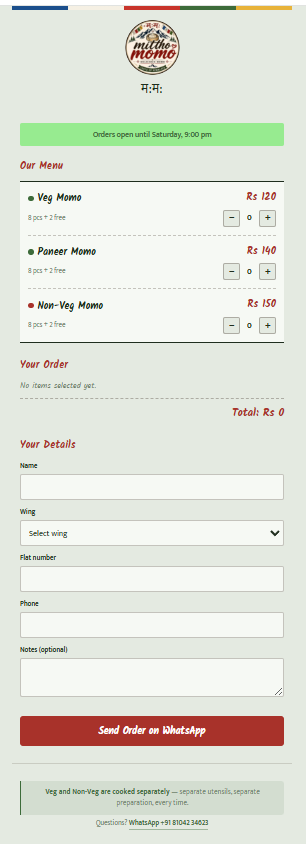
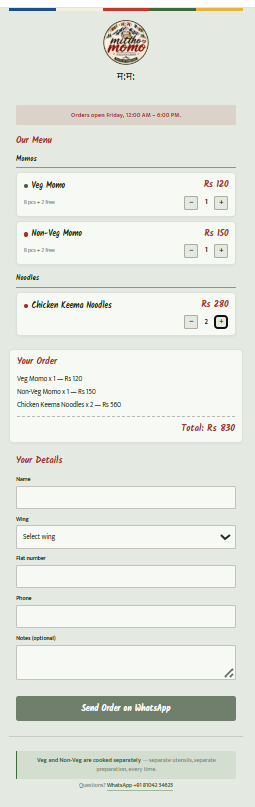
Menu changes and UI changes

diff --git a/js/app.js b/js/app.js
@@ -1,23 +1,51 @@
 const menuList = document.getElementById('menu-list');
 
-let menuHTML = '';
+const categoryLabels = {
+  momo: 'Momos',
+  noodles: 'Noodles',
+};
 
-menu.forEach(function (item) {
-    menuHTML += `
+function renderMenu() {
+  const grouped = {};
+  menu.forEach(function (item) {
+    if (!grouped[item.category]) {
+      grouped[item.category] = [];
+    }
+    grouped[item.category].push(item);
+  });
+
+  let html = '';
+
+  Object.keys(grouped).forEach(function (category) {
+    html += `<h3 class="menu-group-title">${categoryLabels[category] || category}</h3>`;
+    html += '<div class="menu-group">';
+
+    grouped[category].forEach(function (item) {
+      const piecesLine = item.category === 'momo'
+        ? `<p class="pieces">${item.pieces} pcs + ${item.freePieces} free</p>`
+        : '';
+
+      html += `
         <article class="menu-card">
-            <h3><span class="dot ${item.isVeg ? 'veg' : 'nonveg'}"></span>${item.name}</h3>
-            <p class="pieces">${item.pieces} pcs + ${item.freePieces} free</p>
-            <p class="price">Rs ${item.price}</p>
-            <div class="qty-controls">
-                <button type="button" class="qty-btn" data-id="${item.id}" data-action="minus">−</button>
-                <span class="qty" id="qty-${item.id}">0</span>
-                <button type="button" class="qty-btn" data-id="${item.id}" data-action="plus">+</button>
-            </div>
+          <h4><span class="dot ${item.isVeg ? 'veg' : 'nonveg'}"></span>${item.name}</h4>
+          ${piecesLine}
+          <p class="price">Rs ${item.price}</p>
+          <div class="qty-controls">
+            <button type="button" class="qty-btn" data-id="${item.id}" data-action="minus">−</button>
+            <span class="qty" id="qty-${item.id}">0</span>
+            <button type="button" class="qty-btn" data-id="${item.id}" data-action="plus">+</button>
+          </div>
         </article>
-    `;
-});
+      `;
+    });
 
-menuList.innerHTML = menuHTML;
+    html += '</div>';
+  });
+
+  menuList.innerHTML = html;
+}
+
+renderMenu();
 
 const cart = {};
 menu.forEach(function (item) {
@@ -123,10 +151,9 @@ submitBtn.addEventListener('click', function () {
     return;
   }
 
-  // valid — message building goes here next
-    const message = buildMessage();
-    const url = 'https://wa.me/+918104234623?text=' + encodeURIComponent(message);
-    window.open(url, '_blank');
+  const message = buildMessage();
+  const url = 'https://wa.me/918104234623?text=' + encodeURIComponent(message);
+  window.open(url, '_blank');
 });
 
 function buildMessage() {
@@ -140,7 +167,8 @@ function buildMessage() {
     if (qty > 0) {
       const lineTotal = item.price * qty;
       total = total + lineTotal;
-      lines += `• ${item.name} (${item.pieces}+${item.freePieces} pcs) x${qty} = Rs ${lineTotal}\n`;
+      const pieceInfo = item.category === 'momo' ? ` (${item.pieces}+${item.freePieces} pcs)` : '';
+      lines += `• ${item.name}${pieceInfo} x${qty} = Rs ${lineTotal}\n`;
     }
   });
 
@@ -171,10 +199,30 @@ function buildMessage() {
   return message;
 }
 
+function getKolkataDayAndHour() {
+  const parts = new Intl.DateTimeFormat('en-US', {
+    timeZone: 'Asia/Kolkata',
+    weekday: 'short',
+    hour: 'numeric',
+    hour12: false,
+  }).formatToParts(new Date());
+
+  const weekday = parts.find(function (p) { return p.type === 'weekday'; }).value;
+  let hour = Number(parts.find(function (p) { return p.type === 'hour'; }).value);
+  if (hour === 24) hour = 0;
+
+  return { weekday, hour };
+}
+
 function isOrderWindowOpen() {
-  const deadline = new Date(ORDER_DEADLINE);
-  const now = new Date();
-  return now < deadline;
+  const { weekday, hour } = getKolkataDayAndHour();
+  return weekday === 'Fri' && hour >= ORDER_OPEN_HOUR && hour < ORDER_CLOSE_HOUR;
+}
+
+function formatHourLabel(hour) {
+  const period = hour < 12 ? 'AM' : 'PM';
+  const displayHour = hour % 12 === 0 ? 12 : hour % 12;
+  return displayHour + ':00 ' + period;
 }
 
 function applyOrderWindow() {
@@ -182,17 +230,10 @@ function applyOrderWindow() {
   const isOpen = isOrderWindowOpen();
 
   if (isOpen) {
-    const deadline = new Date(ORDER_DEADLINE);
-    const readable = deadline.toLocaleString('en-IN', {
-      timeZone: 'Asia/Kolkata',
-      weekday: 'long',
-      hour: 'numeric',
-      minute: '2-digit',
-    });
-    banner.textContent = 'Orders open until ' + readable;
+    banner.textContent = 'Orders open until ' + formatHourLabel(ORDER_CLOSE_HOUR) + ' today.';
     banner.className = 'status-banner open';
   } else {
-    banner.textContent = 'Orders are closed for this week. Check back soon.';
+    banner.textContent = 'Orders open Friday, ' + formatHourLabel(ORDER_OPEN_HOUR) + ' – ' + formatHourLabel(ORDER_CLOSE_HOUR) + '.';
     banner.className = 'status-banner closed';
     submitBtn.disabled = true;
   }

diff --git a/css/styles.css b/css/styles.css
@@ -8,6 +8,7 @@
   --dark: #1F2E1E;
   --muted: #6F7F6C;
   --maroon: #A8322A;
+  --maroon-dark: #7E1F1A;
   --gold: #B58F3F;
   --green: #3D6B3A;
 
@@ -96,7 +97,7 @@ body {
 }
 
 .status-banner.open {
-  background: rgba(28, 238, 13, 0.384);
+  background: rgba(61, 107, 58, 0.15);
   color: var(--green);
 }
 
@@ -123,19 +124,32 @@ h2 {
 /* ---------- Menu list ---------- */
 
 #menu-list {
-  background: var(--paper);
-  padding: 0 16px;
-  border-top: 2px solid var(--dark);
-  border-bottom: 2px solid var(--dark);
+  background: none;
+  padding: 0;
+  border: none;
+}
+
+.menu-group-title {
+  font-family: "Kalam", cursive;
+  font-size: 1.05rem;
+  font-weight: 700;
+  color: var(--dark);
+  margin: 20px 0 10px;
+  padding-bottom: 6px;
+  border-bottom: 2px solid var(--gold);
+}
+
+.menu-group-title:first-child {
+  margin-top: 0;
 }
 
 .menu-card {
-  background: none;
-  border: none;
-  border-radius: 0;
-  border-bottom: 1px dashed rgba(46, 31, 20, 0.25);
-  padding: 16px 0;
-  margin: 0;
+  background: var(--paper);
+  border: 1px solid rgba(31, 46, 30, 0.12);
+  border-radius: 10px;
+  box-shadow: 0 2px 6px rgba(31, 46, 30, 0.06);
+  padding: 14px 16px;
+  margin-bottom: 10px;
   display: grid;
   grid-template-columns: minmax(0, 1fr) auto;
   grid-template-areas:
@@ -145,12 +159,14 @@ h2 {
   align-items: center;
 }
 
-.menu-card:last-child { border-bottom: none; }
+.menu-card:last-child {
+  margin-bottom: 0;
+}
 
-.menu-card h3 {
+.menu-card h4 {
   grid-area: name;
   font-family: "Kalam", cursive;
-  font-size: 1.25rem;
+  font-size: 1.15rem;
   font-weight: 700;
   margin: 0;
   display: flex;
@@ -218,6 +234,14 @@ h2 {
 }
 
 /* ---------- Order summary ---------- */
+
+#summary-section {
+  background: var(--paper);
+  border: 1px solid rgba(31, 46, 30, 0.12);
+  border-radius: 10px;
+  box-shadow: 0 2px 6px rgba(31, 46, 30, 0.06);
+  padding: 14px 16px;
+}
 
 .cart-line {
   margin: 0 0 6px;
@@ -315,6 +339,7 @@ footer p { margin: 6px 0; }
   * { transition: none !important; animation: none !important; }
 }
 
+/* ---------- Toast ---------- */
 
 .toast {
   position: fixed;
@@ -377,4 +402,3 @@ footer p { margin: 6px 0; }
   white-space: nowrap;
   border: 0;
 }
-

diff --git a/js/menu.js b/js/menu.js
@@ -1,7 +1,10 @@
-const ORDER_DEADLINE = '2026-09-05T21:00:00+05:30';
+// Orders are open every Friday, Asia/Kolkata time, from ORDER_OPEN_HOUR up to
+// (not including) ORDER_CLOSE_HOUR. Hours are 24-hour, so 0 = 12:00 AM, 18 = 6:00 PM.
+const ORDER_OPEN_HOUR = 0;
+const ORDER_CLOSE_HOUR = 18;
 
 const menu = [
-  { id: 'veg',    name: 'Veg Momo',     price: 120, type: 'veg',    isVeg: true,  pieces: 8, freePieces: 2 },
-  { id: 'paneer', name: 'Paneer Momo',  price: 140, type: 'paneer', isVeg: true,  pieces: 8, freePieces: 2 },
-  { id: 'nonveg', name: 'Non-Veg Momo', price: 150, type: 'nonveg', isVeg: false, pieces: 8, freePieces: 2 },
+  { id: 'veg',    name: 'Veg Momo',     price: 120, type: 'veg',    isVeg: true,  pieces: 8, freePieces: 2, category: 'momo' },
+  { id: 'nonveg', name: 'Non-Veg Momo', price: 150, type: 'nonveg', isVeg: false, pieces: 8, freePieces: 2, category: 'momo' },
+  { id: 'keema-noodles', name: 'Chicken Keema Noodles', price: 280, isVeg: false, category: 'noodles' },
 ];

diff --git a/README.md b/README.md
@@ -32,7 +32,7 @@ Customer picks items  →  cart state in browser  →  formatted text
 
 - **Data-driven menu** — items live in a single array; prices and products are never hardcoded in markup
 - **Live cart** with per-item quantity controls and running total
-- **Order window logic** — a configurable deadline closes ordering and disables submission after the weekly cutoff, pinned to IST regardless of the visitor's device timezone
+- **Order window logic** — orders are open every Friday, 12:00 AM–6:00 PM IST, checked against Kolkata time regardless of the visitor's device timezone, with submission disabled outside that window
 - **Client-side validation** with inline field highlighting
 - **WhatsApp handoff** with correct URL encoding for multi-line messages
 - **Veg / non-veg labelling** following Indian food-marking convention, with separate-preparation disclosure surfaced at the point of choice
@@ -52,22 +52,23 @@ Hosted on Cloudflare Pages.
 mittho-momo/
 ├── index.html
 ├── css/
-│   └── style.css
+│   └── styles.css
 ├── js/
-│   ├── menu.js      # menu data + order deadline config
+│   ├── menu.js      # menu data + order window config
 │   └── app.js       # rendering, cart, validation, message building
 └── images/
 ```
 
 ## Configuration
 
-The two things the kitchen changes week to week live at the top of `js/menu.js`:
+The menu — changed week to week — and the order window hours — changed only if the weekly schedule itself moves — live at the top of `js/menu.js`:
 
 ```js
-const ORDER_DEADLINE = '2026-09-05T21:00:00+05:30';
+const ORDER_OPEN_HOUR = 0;   // 12:00 AM
+const ORDER_CLOSE_HOUR = 18; // 6:00 PM
 
 const menu = [
-  { id: 'veg', name: 'Veg Momo', price: 120, type: 'veg', isVeg: true, pieces: 8, freePieces: 2 },
+  { id: 'veg', name: 'Veg Momo', price: 120, type: 'veg', isVeg: true, pieces: 8, freePieces: 2, category: 'momo' },
   // ...
 ];
 ```
@@ -78,7 +79,7 @@ Editing a price or adding an item requires no HTML changes — the menu renders 
 
 **No time-slot selection.** An earlier draft let customers choose a delivery window. Removed after thinking through the kitchen's constraints: a solo cook can't serve fifteen orders that all request 7:00 PM. Batching and messaging directly turned out to be better than a feature that quietly overpromised.
 
-**Deadline stored as an ISO string with an explicit `+05:30` offset.** The site is maintained from Nepal and used in India — 15 minutes apart. Pinning the timezone avoids a class of bug that only appears across borders.
+**Order window read from Kolkata time via `Intl.DateTimeFormat`, never the device's local clock.** The site is maintained from Nepal and used in India — 15 minutes apart. Computing the day/hour directly in Asia/Kolkata avoids a class of bug that only appears across borders.
 
 **Cart state as the single source of truth.** Clicks mutate a `cart` object and then trigger a full re-render; nothing reads values back off the DOM. This is the same one-directional pattern React formalises, implemented by hand.
 
